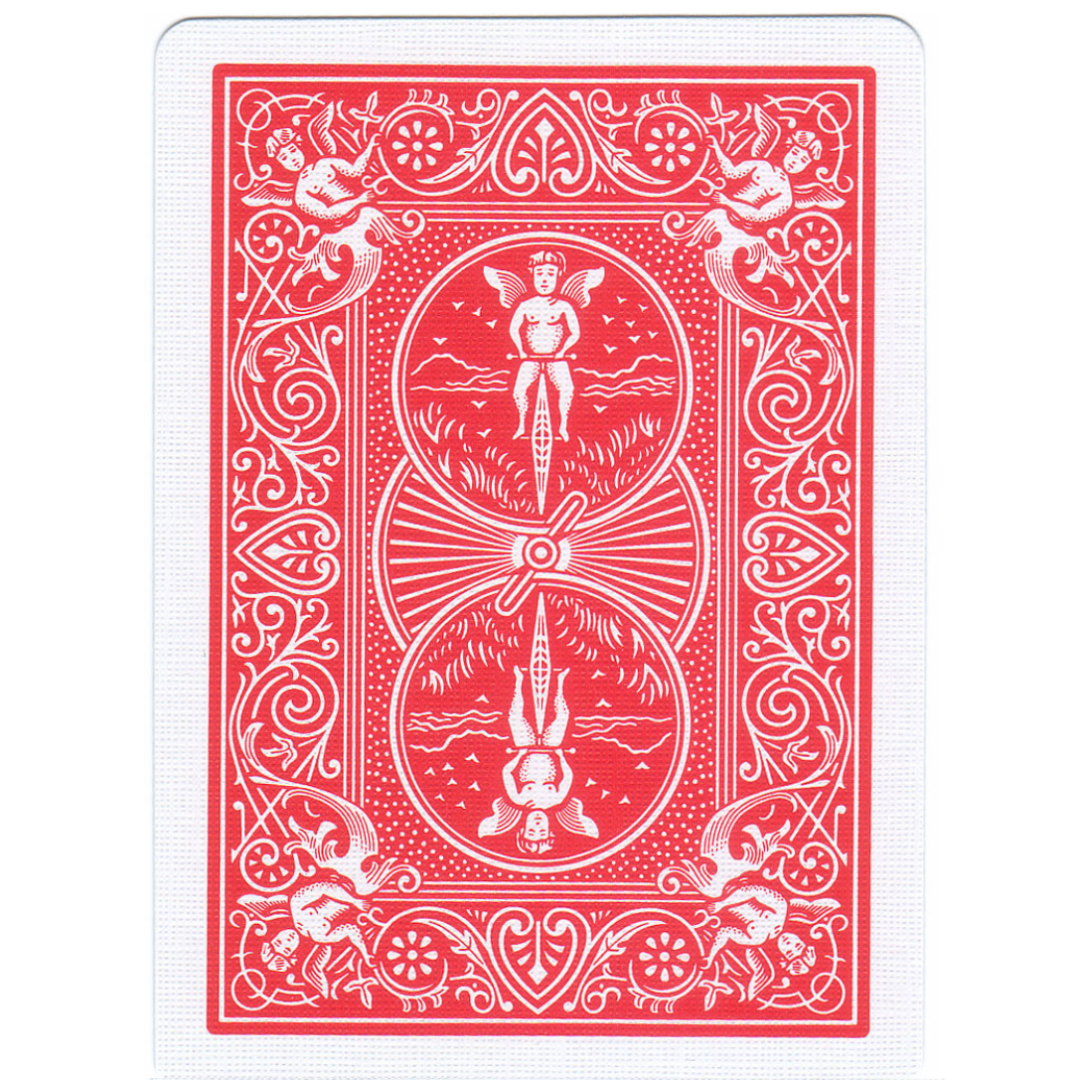
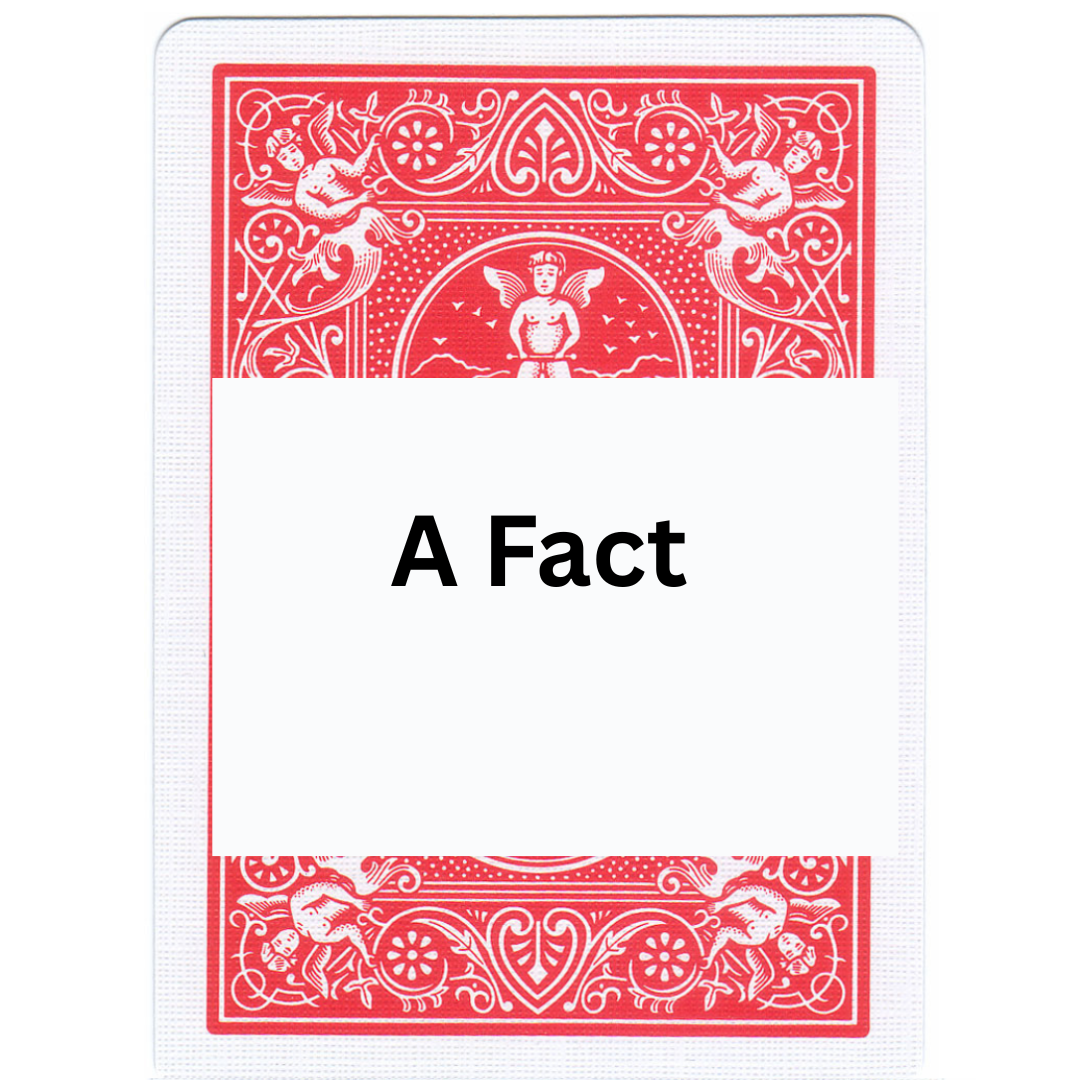
first commit

Changed region(s): [[0.1833, 0.3361, 0.825, 0.7944]]

diff --git a/reward_2025_2 copy.html b/reward_2025_2 copy.html
@@ -1,0 +1,305 @@
+<!DOCTYPE html>
+<html>
+  <head>
+    <style>
+      .hide_cursor {
+        cursor: none;
+      }
+    </style>
+    <title>My experiment</title>
+    <script src="jspsych/plugins/jspsych.js"></script>
+    <script src="jspsych/plugins/plugin-instructions.js"></script>
+    <script src="jspsych/plugins/plugin-html-button-response.js"></script>
+    <script src="jspsych/plugins/plugin-survey-text.js"></script>
+    <script src="jspsych/plugins/plugin-html-keyboard-response.js"></script>
+    <script src="jspsych/plugins/plugin-survey-likert.js"></script>
+    <script src="jspsych/plugins/plugin-fullscreen.js"></script>
+    <script src="jspsych/plugins/plugin-preload.js"></script>
+    <link rel="stylesheet" href="jspsych/css/jspsych.css">
+  </head>
+
+  <body></body>
+
+  <script>
+    // ====================================================
+    // BASIC SETUP
+    // ====================================================
+    var data_folder = 'data/';
+
+    function saveData(name, data){
+      var xhr = new XMLHttpRequest();
+      xhr.open('POST', 'write_data.php');
+      xhr.setRequestHeader('Content-Type', 'application/json');
+      xhr.send(JSON.stringify({filedata: data}));
+    }
+
+    var jsPsych = initJsPsych({
+      on_finish: function() {
+        saveData(data_folder+'All_data/all_data_sub_'+subject_id+".csv", jsPsych.data.get().csv());
+      }
+    });
+
+    var timeline = [];
+
+    // ----------- Subject properties -----------
+    var subject_id = jsPsych.data.getURLVariable('participantId');
+    var study_id = jsPsych.data.getURLVariable('assignmentId');
+    var session_id = jsPsych.data.getURLVariable('projectId');
+
+    jsPsych.data.addProperties({
+      subject_id: subject_id,
+      study_id: study_id,
+      session_id: session_id,
+    });
+
+    // ====================================================
+    // PRELOAD
+    // ====================================================
+    var preload = {
+      type: jsPsychPreload,
+      images: [
+        'consent_form_2022.png',
+        'images/blue_deck_1.png',
+        'images/red_deck_2.png'
+      ]
+    };
+    timeline.push(preload);
+
+    // ====================================================
+    // INTRO & CONSENT
+    // ====================================================
+    var trial_0 = {
+      type: jsPsychInstructions,
+      pages: [
+        '<div style="font-family: Arial; padding: 100px; padding-top: 5%; text-align: left;">' +
+        '<h2>Thank you for participating in this experiment!</h2>' +
+        '<p>By clicking the "Begin Study" button, you will be taken to the study, including complete instructions and an informed consent agreement.</p>'
+      ],
+      show_clickable_nav: true
+    };
+
+    var trial_consent = {
+      type: jsPsychInstructions,
+      pages: [
+        '<div style="text-align:center; font-family:Arial; font-size: 22px; padding-top:20px;">' +
+        '<p>Please carefully read the consent form below before proceeding.</p>' +
+        '<img src="consent_form_2022.png" style="max-width:80%; padding:20px;"></img>' +
+        '</div>'
+      ],
+      show_clickable_nav: true
+    };
+
+    var trial_01 = {
+      type: jsPsychFullscreen,
+      fullscreen_mode: true
+    };
+
+    timeline.push(trial_0, trial_consent, trial_01);
+
+    // ====================================================
+    // INSTRUCTIONS (UPDATED)
+    // ====================================================
+    var instructions_deck_choice = {
+      type: jsPsychInstructions,
+      pages: [
+        '<div style="font-family: Arial; text-align: left; padding: 100px; padding-top: 5%;">' +
+        '<h2>Instructions</h2>' +
+        '<p>In this experiment, you will choose between two decks of cards: one <span style="color: red;">red</span> and one <span style="color: blue;">blue</span>.</p>' +
+        '<p><b>After each choice, you will see a short sequence of sentences or statements.</b></p>' +
+        '<div style="border: 2px solid #333; border-radius: 12px; padding: 25px; margin: 35px 0; background-color: #f5f5f5;">' +
+        '<p style="font-size: 22px; font-weight: bold; text-align: center; line-height: 1.6;">' +
+        'The <span style="color: blue;">blue deck</span> presents a <b>question and an answer</b> — together they form a small, coherent exchange.<br><br>' +
+        'The <span style="color: red;">red deck</span> presents an <b>interesting fact</b> — something new or surprising that stands on its own.' +
+        '</p>' +
+        '</div>' +
+        '<p>As you go along, try to notice the differences between the two decks and choose the one that feels more engaging or meaningful to you.</p>' +
+        '<p>There are no right or wrong answers. Simply follow your intuition.</p>' +
+        '</div>'
+      ],
+      show_clickable_nav: true
+    };
+
+    timeline.push(instructions_deck_choice);
+
+    // ====================================================
+    // HELPER FUNCTIONS
+    // ====================================================
+    function createImageTrial(imagePath, label) {
+      return {
+        type: jsPsychHtmlKeyboardResponse,
+        stimulus: `<div style="display: flex; justify-content: center; align-items: center;">
+                     <img src="${imagePath}" style="width: 300px; height: 300px;" />
+                   </div>`,
+        choices: "NO_KEYS",
+        trial_duration: 6000,
+        data: { phase: label }
+      };
+    }
+
+    var choose_deck = {
+      type: jsPsychHtmlButtonResponse,
+      stimulus: `
+        <div style="display: flex; justify-content: center; align-items: center;">
+          <img src="images/red_deck_2.png" style="width: 300px; height: 300px; margin-right: 10px;" />
+          <img src="images/blue_deck_1.png" style="width: 300px; height: 300px;" />
+        </div>`,
+      choices: ['Red Deck', 'Blue Deck'],
+      data: { phase: 'deck_choice' },
+      on_finish: function(data) {
+        data.choice = data.response;
+      }
+    };
+
+    // ====================================================
+    // TRIAL LOGIC (red → causal_a+b / blue → semantic_a)
+    // ====================================================
+    function createDeckTrial(seriesIndex) {
+      return {
+        timeline: [
+          choose_deck,
+          {
+            timeline: [
+              {
+                conditional_function: function() {
+                  return jsPsych.data.getLastTrialData().values()[0].response == 0; // red
+                },
+                timeline: [
+                  createImageTrial(`images/causal/causal_series_${seriesIndex}/causal_series_${seriesIndex}_a.png`, 'causal_a'),
+                  createImageTrial(`images/causal/causal_series_${seriesIndex}/causal_series_${seriesIndex}_b.png`, 'causal_b')
+                ]
+              },
+              {
+                conditional_function: function() {
+                  return jsPsych.data.getLastTrialData().values()[0].response == 1; // blue
+                },
+                timeline: [
+                  createImageTrial(`images/semantic/semantic_series_${seriesIndex}/semantic_series_${seriesIndex}_a.png`, 'semantic_a')
+                ]
+              }
+            ]
+          },
+          {
+            type: jsPsychSurveyLikert,
+            questions: [
+              {
+                prompt: "How surprising did you find the last set of sentences?",
+                labels: [
+                  "1 - Not at all surprising",
+                  "2",
+                  "3",
+                  "4",
+                  "5 - Extremely surprising"
+                ],
+                required: true
+              }
+            ],
+            data: { phase: 'surprise_rating' }
+          },
+          {
+            type: jsPsychSurveyLikert,
+            questions: [
+              {
+                prompt: "How much did you enjoy this sequence?",
+                labels: [
+                  "1 - Not at all",
+                  "2",
+                  "3",
+                  "4",
+                  "5 - Very much"
+                ],
+                required: true
+              }
+            ],
+            data: { phase: 'enjoyment_rating' }
+          }
+        ]
+      };
+    }
+
+    // ====================================================
+    // RANDOMIZED BLOCKS
+    // ====================================================
+    var blocks = [];
+    for (let i = 1; i <= 10; i++) {
+      blocks.push(createDeckTrial(i));
+    }
+
+    function shuffleArray(array) {
+      for (let i = array.length - 1; i > 0; i--) {
+        const j = Math.floor(Math.random() * (i + 1));
+        [array[i], array[j]] = [array[j], array[i]];
+      }
+      return array;
+    }
+
+    shuffleArray(blocks).forEach(block => {
+      timeline.push(block);
+    });
+
+    // ====================================================
+    // POST QUESTIONS
+    // ====================================================
+    var trial_difference_between_decks = {
+      type: jsPsychSurveyText,
+      questions: [{ prompt: 'Can you describe the difference between the two decks of cards?' }]
+    };
+
+    var trial_deck_color = {
+      type: jsPsychHtmlButtonResponse,
+      stimulus: 'Which color deck do the following sentences continue the story from?',
+      choices: ['Blue', 'Red']
+    };
+
+    var trial_deck_color_not_following = {
+      type: jsPsychHtmlButtonResponse,
+      stimulus: 'Which color deck do the following sentences NOT follow the story from?',
+      choices: ['Blue', 'Red']
+    };
+
+    var trial_deck_preference = {
+      type: jsPsychHtmlButtonResponse,
+      stimulus: 'Which type of deck did you prefer overall?',
+      choices: [
+        'The red deck, which showed new information',
+        'The blue deck, which showed a connected and coherent story'
+      ]
+    };
+
+    timeline.push(
+      trial_difference_between_decks,
+      trial_deck_color,
+      trial_deck_color_not_following,
+      trial_deck_preference
+    );
+
+    // ====================================================
+    // DEMOGRAPHICS
+    // ====================================================
+    var trial_101 = {
+      type: jsPsychSurveyText,
+      questions: [
+        { prompt: 'Please insert your gender (MALE / FEMALE / OTHER)' },
+        { prompt: 'Please insert your age' }
+      ]
+    };
+    timeline.push(trial_101);
+
+    // ====================================================
+    // END SCREEN
+    // ====================================================
+    var trial_102 = {
+      type: jsPsychInstructions,
+      pages: [
+        '<span style="color: black; font-size: 24px">You have completed the experiment.' +
+        '<br/>The completion code is : 85B28EDEFF <br/>Thank you for your participation!</span>'
+      ],
+      show_clickable_nav: true
+    };
+    timeline.push(trial_102);
+
+    // ====================================================
+    // RUN EXPERIMENT
+    // ====================================================
+    jsPsych.run(timeline);
+  </script>
+</html>
